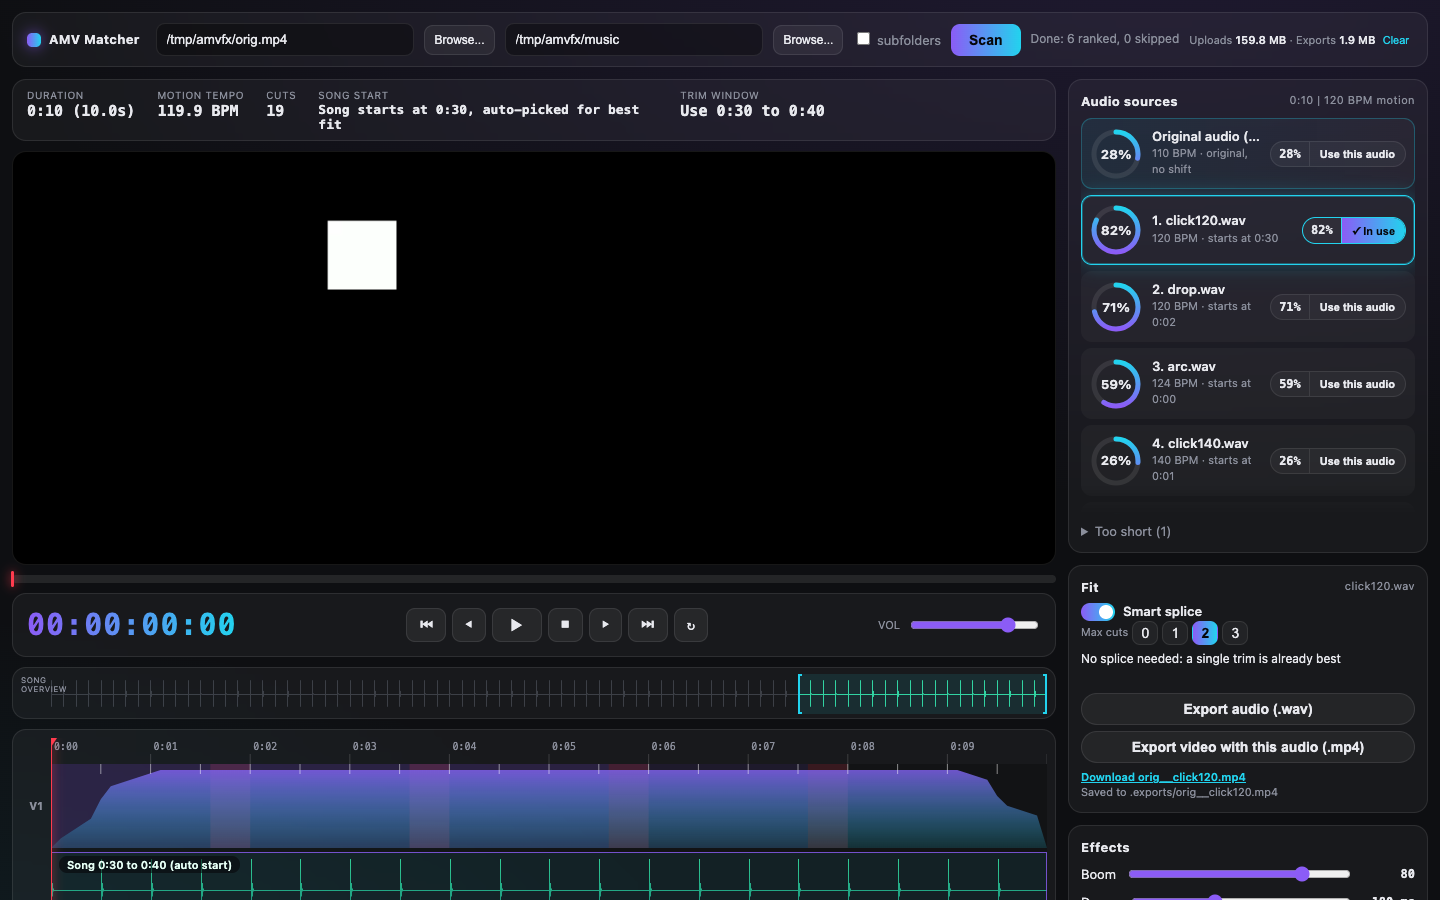
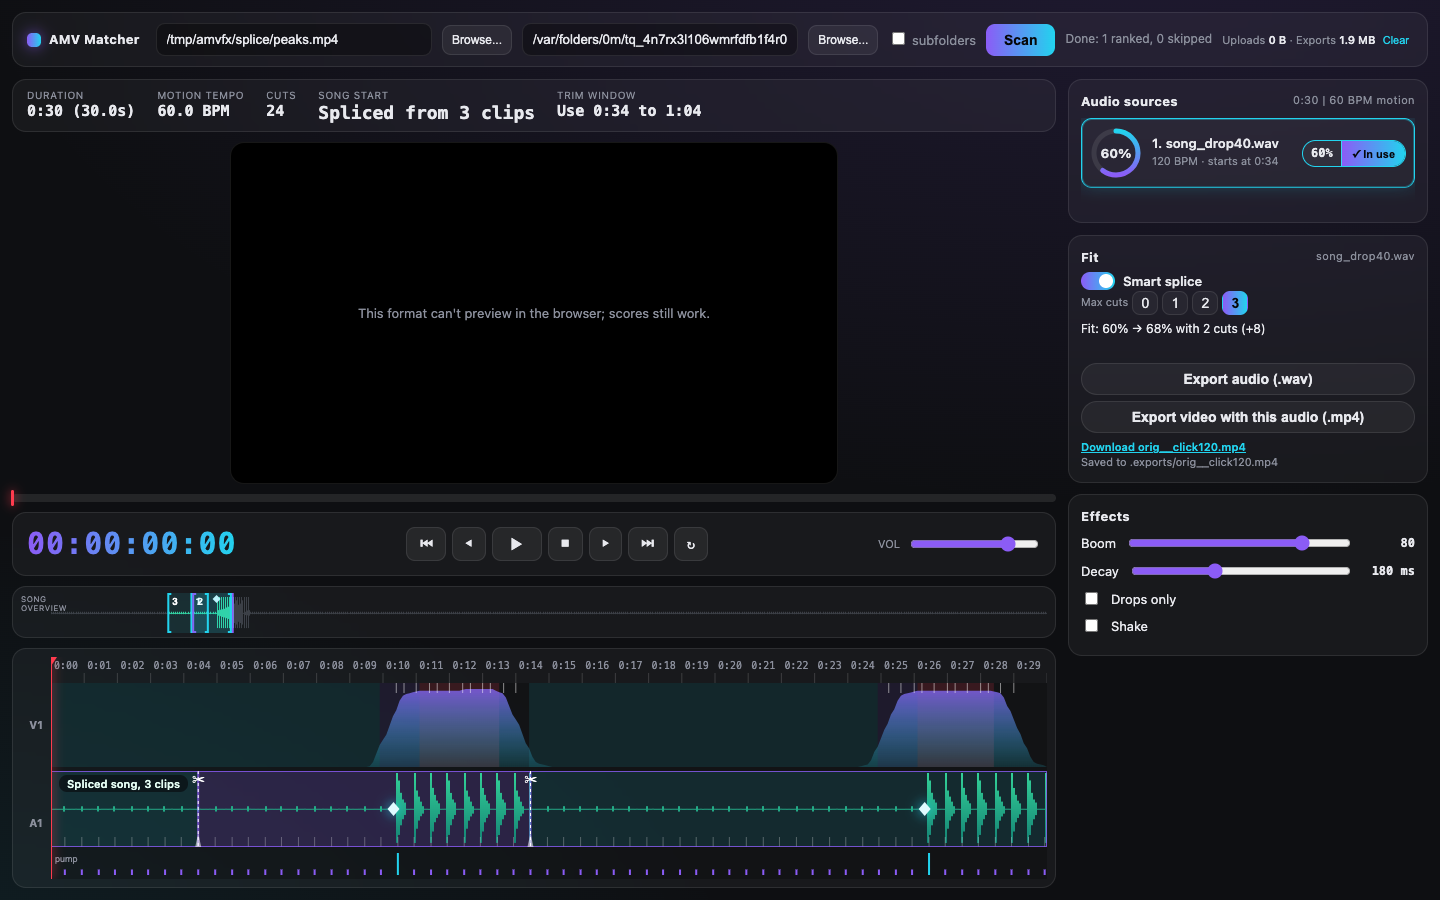
UI: smoke isolated on temp server, multi-cut + layout checks, player height cap, polish

diff --git a/static/app.js b/static/app.js
@@ -125,7 +125,7 @@ function renderResults(j) {
   order.forEach(i => {
     const r = S.results[i], orig = r.source === 'original';
     const d = document.createElement('div'); d.className = 'res' + (orig ? ' orig' : ''); d.dataset.i = i;
-    d.innerHTML = ring(r.total_pct) + `<div class="rtxt"><div class="rname" title="${esc(r.name)}">${orig ? '' : (++rank) + '. '}${esc(r.name)}${orig ? '<span class="chip">from video</span>' : ''}${r.dropped ? '<span class="chip">dropped</span>' : ''}</div>
+    d.innerHTML = ring(r.total_pct) + `<div class="rtxt"><div class="rname" title="${esc(r.name)}">${orig ? 'Original audio' : (++rank) + '. ' + esc(r.name)}${orig ? '<span class="chip">from video</span>' : ''}${r.dropped ? '<span class="chip">dropped</span>' : ''}</div>${orig ? `<div class="rsub">${esc((r.name.match(/\((.*)\)\s*$/) || [, ''])[1])}</div>` : ''}
       <div class="rmeta">${metaText(r)}</div></div><div class="pill"><span class="pp">${Math.round(r.total_pct)}%</span><button class="use" title="Use this audio for playback, splice and export">Use this audio</button></div>`;
     d.onclick = () => selectSong(r);
     d.querySelector('.use').onclick = e => { e.stopPropagation(); useAudio(r); };
@@ -413,7 +413,9 @@ cv.addEventListener('pointerup', () => { drag = null; });
 function clampOff(o) { const mx = S.wf ? Math.max(0, S.wf.duration - S.dur) : 0; return Math.min(mx, Math.max(0, o)); }
 function readout() {
   const r = S.sel, orig = r && r.source === 'original';
-  $('vc-off').textContent = !r ? '--' : orig ? 'Original audio, no shift' : spliceActive() ? 'Spliced from ' + (S.sp.plan.cuts.length + 1) + ' clips' : 'Song starts at ' + fmtMS(S.offset) + (S.manual ? ', set manually' : ', auto-picked for best fit');
+  $('vc-off').textContent = !r ? '--' : orig ? 'Original audio, no shift' : spliceActive() ? 'Spliced from ' + (S.sp.plan.cuts.length + 1) + ' clips' : 'Starts at ' + fmtMS(S.offset);
+  $('vc-chip').textContent = !r || orig || spliceActive() ? '' : S.manual ? 'manual' : 'auto-picked';
+  $('vc-chip').classList.toggle('hidden', !$('vc-chip').textContent);
   $('vc-reset').classList.toggle('hidden', !r || orig || !S.manual);
   $('vc-trim').textContent = !r ? '--' : orig ? 'Whole track' : 'Use ' + fmtMS(S.offset) + ' to ' + fmtMS(S.offset + S.dur);
   let l = ''; if (r) l = orig ? 'Original audio (from video)' : spliceActive() ? 'Spliced song, ' + (S.sp.plan.cuts.length + 1) + ' clips' : `Song ${fmtMS(S.offset)} to ${fmtMS(S.offset + S.dur)} (${S.manual ? 'manual' : 'auto'} start)`;
@@ -456,6 +458,7 @@ function drawOv() {
     octx.beginPath(); octx.moveTo(xa + 4, 1); octx.lineTo(xa + 1, 1); octx.lineTo(xa + 1, OH - 1); octx.lineTo(xa + 4, OH - 1); octx.moveTo(xb - 4, 1); octx.lineTo(xb - 1, 1); octx.lineTo(xb - 1, OH - 1); octx.lineTo(xb - 4, OH - 1); octx.stroke(); octx.lineWidth = 1;
     if (sp) { octx.fillStyle = '#fff'; octx.font = 'bold 10px sans-serif'; octx.fillText(String(k + 1), xa + 5, 12); }
   });
+  window.OVX = {brackets: sp ? segs.length : 0};
 }
 const ovX = e => e.clientX - ov.getBoundingClientRect().left;
 ov.addEventListener('pointerdown', e => {

diff --git a/static/style.css b/static/style.css
@@ -21,7 +21,7 @@ button.toggle.on{background:rgba(139,92,246,.35);border-color:var(--v)}
 .hidden{display:none!important}
 .layout{display:grid;grid-template-columns:minmax(0,1fr) 360px;gap:12px;margin:12px}
 .editor{display:flex;flex-direction:column;gap:10px;min-width:0}
-.stage{position:relative;aspect-ratio:16/9;max-height:46vh;width:100%;margin:0 auto;overflow:hidden;background:#000;display:flex;align-items:center;justify-content:center}
+.stage{position:relative;aspect-ratio:16/9;height:clamp(220px,38vh,520px);max-width:100%;margin:0 auto;overflow:hidden;background:#000;display:flex;align-items:center;justify-content:center}
 .stage video{width:100%;height:100%;object-fit:contain;will-change:transform,filter;transform-origin:center}
 .vid-msg{position:absolute;inset:0;display:flex;align-items:center;justify-content:center;text-align:center;color:var(--mut);padding:20px}
 .scrub{position:relative;height:8px;background:var(--line);border-radius:4px;cursor:pointer}
@@ -123,3 +123,5 @@ body.dragging .dz.bad::after{content:'\2715\00a0\00a0' attr(data-bad);background
 .ex-out{font-size:11px;margin-top:6px;word-break:break-all}
 .ex-out a.dl{color:var(--c);font-weight:600}
 body.dragging #fit,body.dragging .ovwrap{opacity:.5;transition:opacity var(--ease)}
+
+.vc-start b{font-size:18px}.vc-start .chip{margin:2px 0 0;align-self:flex-start}.rsub{display:block;font-weight:400;font-size:11px;color:var(--mut);overflow:hidden;text-overflow:ellipsis;white-space:nowrap}

diff --git a/static/index.html b/static/index.html
@@ -27,7 +27,7 @@
 
 <main class="layout">
   <section class="editor">
-    <div class="vcard glass" id="vcard"><div><span>Duration</span><b id="vc-dur">--</b></div><div><span>Motion tempo</span><b id="vc-bpm">--</b></div><div><span>Cuts</span><b id="vc-cuts">--</b></div><div class="vc-start"><span>Song start</span><b id="vc-off">--</b><button id="vc-reset" class="linkbtn hidden">Reset to best start</button></div><div><span>Trim window</span><b id="vc-trim">--</b></div></div>
+    <div class="vcard glass" id="vcard"><div><span>Duration</span><b id="vc-dur">--</b></div><div><span>Motion tempo</span><b id="vc-bpm">--</b></div><div><span>Cuts</span><b id="vc-cuts">--</b></div><div class="vc-start"><span>Song start</span><b id="vc-off">--</b><i id="vc-chip" class="chip hidden"></i><button id="vc-reset" class="linkbtn hidden">Reset to best start</button></div><div><span>Trim window</span><b id="vc-trim">--</b></div></div>
     <div class="stage glass" id="stage">
       <video id="vid" muted playsinline preload="auto"></video>
       <div id="vid-msg" class="vid-msg hidden">This format can't preview in the browser; scores still work.</div>

diff --git a/tools/ui_smoke.py b/tools/ui_smoke.py
@@ -11,6 +11,21 @@ import websocket
 
 CHROME = "/Applications/Google Chrome.app/Contents/MacOS/Google Chrome"
 PORT = 9333
+SRV_PORT = 8799
+
+
+def serve(d):
+    """Run the app with its upload/export/extract dirs redirected into a temp dir (no backend change needed)."""
+    sys.path.insert(0, os.path.join(os.path.dirname(os.path.abspath(__file__)), ".."))
+    from pathlib import Path
+    import uvicorn
+    from amv_matcher import server
+    server.UPLOADS = Path(d) / "uploads"
+    server.EXPORTS = Path(d) / "exports"
+    server.EXTRACTED = Path(d) / "extracted"
+    server.ALLOWED_ORIGINS = {f"http://127.0.0.1:{SRV_PORT}", f"http://localhost:{SRV_PORT}"}
+    uvicorn.run(server.app, host="127.0.0.1", port=SRV_PORT, log_level="warning")
+    return 0
 
 
 class CDP:
@@ -95,13 +110,40 @@ def wait_for(c, expr, timeout=60, step=0.4):
 
 def main():
     ap = argparse.ArgumentParser()
-    ap.add_argument("--url", default="http://127.0.0.1:8765")
+    ap.add_argument("--server", default=None, help="test an existing server read-only (writes are skipped); default: own temp server on :8799")
+    ap.add_argument("--_serve", default=None, help=argparse.SUPPRESS)
     ap.add_argument("--video", default="/tmp/amvfx/clip.mp4")
     ap.add_argument("--music", default="/tmp/amvfx/music")
     ap.add_argument("--allow-clear", action="store_true")
     ap.add_argument("--bad-video", default="/tmp/amvfx/clip.mkv")
     ap.add_argument("--shot", default=os.path.join(os.path.dirname(__file__), "..", "docs", "ui.png"))
     a = ap.parse_args()
+    if a._serve:
+        return serve(a._serve)
+    ro = a.server is not None
+    srv = None
+    sdir = None
+    if ro:
+        a.url = a.server
+    else:
+        sdir = tempfile.mkdtemp(prefix="amv-srv-")
+        a.url = f"http://127.0.0.1:{SRV_PORT}"
+        srv = subprocess.Popen([sys.executable, os.path.abspath(__file__), "--_serve", sdir],
+                               cwd=os.path.join(os.path.dirname(os.path.abspath(__file__)), ".."),
+                               stdout=subprocess.DEVNULL, stderr=subprocess.DEVNULL)
+        for _ in range(100):
+            try:
+                urllib.request.urlopen(a.url + "/api/uploads", timeout=1)
+                break
+            except Exception:
+                time.sleep(0.2)
+        else:
+            print("FAIL  temp server did not start on", a.url)
+            srv.kill()
+            shutil.rmtree(sdir, ignore_errors=True)
+            return 2
+    print("server:", a.url, "(read-only)" if ro else f"(own temp instance, state in {sdir})")
+    a.allow_clear = not ro
 
     prof = tempfile.mkdtemp(prefix="amv-ui-")
     proc = subprocess.Popen([CHROME, "--headless=new", f"--remote-debugging-port={PORT}", f"--user-data-dir={prof}",
@@ -361,8 +403,9 @@ def main():
                 os.makedirs(os.path.dirname(os.path.abspath(a.shot)), exist_ok=True)
                 import base64
                 png = c.call("Page.captureScreenshot", format="png")["data"]
-                open(a.shot, "wb").write(base64.b64decode(png))
-                check("screenshot saved (drop.wav at the drop)", os.path.getsize(a.shot) > 10000, os.path.abspath(a.shot))
+                tmpshot = os.path.join(prof, "drop.png")
+                open(tmpshot, "wb").write(base64.b64decode(png))
+                check("screenshot captured (drop.wav at the drop)", os.path.getsize(tmpshot) > 10000, tmpshot)
         else:
             print("SKIP  drop checks (no drop.wav in", a.music + ")")
 
@@ -421,19 +464,75 @@ def main():
                 check("splice on -> fit message (percentages only)", ("Fit:" in fm or "No splice" in fm) and "objective" not in fm.lower(), fm)
                 lbl = c.ev("document.getElementById('a1-lbl').textContent") or ""
                 check("A1 label reflects splice or single trim", "Spliced" in lbl or "Song" in lbl, lbl)
-            c.ev("document.getElementById('ex-wav').click()")
-            ok = wait_for(c, "!!document.querySelector('#ex-link')", 90)
-            href = c.ev("(document.querySelector('#ex-link')||{}).href")
-            st = c.ev(f"fetch({json.dumps(href or '')}).then(r=>r.status)") if href else None
-            check("Export .wav -> download link works", ok and st == 200, f"{href} {st}")
-            c.ev("document.getElementById('ex-mp4').click()")
-            ok = wait_for(c, "/\\.mp4/.test((document.querySelector('#ex-link')||{}).href||'')", 180)
-            href = c.ev("(document.querySelector('#ex-link')||{}).href")
-            st = c.ev(f"fetch({json.dumps(href or '')}).then(r=>r.status)") if href else None
-            check("Export .mp4 -> job completes, download works", ok and st == 200, f"{href} {st}")
+            if ro:
+                print("SKIP  export checks (read-only server)")
+            else:
+                c.ev("document.getElementById('ex-wav').click()")
+                ok = wait_for(c, "!!document.querySelector('#ex-link')", 90)
+                href = c.ev("(document.querySelector('#ex-link')||{}).href")
+                st = c.ev(f"fetch({json.dumps(href or '')}).then(r=>r.status)") if href else None
+                check("Export .wav -> download link works", ok and st == 200, f"{href} {st}")
+                c.ev("document.getElementById('ex-mp4').click()")
+                ok = wait_for(c, "/\\.mp4/.test((document.querySelector('#ex-link')||{}).href||'')", 180)
+                href = c.ev("(document.querySelector('#ex-link')||{}).href")
+                st = c.ev(f"fetch({json.dumps(href or '')}).then(r=>r.status)") if href else None
+                check("Export .mp4 -> job completes, download works", ok and st == 200, f"{href} {st}")
+            import base64
+            # restore the main fixture for the following checks
+            scan(a.video)
+            wait_for(c, "document.querySelectorAll('.res').length>0 && !document.getElementById('scan').disabled", 90)
+            c.ev("document.querySelector('.res').click()")
+            wait_for(c, "!!(S.sel && S.wf) && document.getElementById('vid').readyState>=2", 30)
+
+        # ---- multi-cut splice (cuts clearly win) + layout, final docs/ui.png
+        sd = "/tmp/amvfx/splice"
+        try:
+            sys.path.insert(0, os.path.join(os.path.dirname(os.path.abspath(__file__)), ".."))
+            from tests.synth import make_peaks_video, make_loud_windows
+            os.makedirs(sd, exist_ok=True)
+            if not os.path.exists(sd + "/peaks.mp4"):
+                make_peaks_video(sd + "/peaks.mp4")
+            if not os.path.exists(sd + "/song_drop40.wav"):
+                make_loud_windows(sd + "/song_drop40.wav", seconds=240, loud=((40, 48),))
+        except Exception as e:
+            print("SKIP  multi-cut fixtures:", e)
+        if os.path.exists(sd + "/peaks.mp4") and os.path.exists(sd + "/song_drop40.wav"):
+            mc_dir = os.path.join(prof, "mc")
+            os.makedirs(mc_dir, exist_ok=True)
+            shutil.copy(sd + "/song_drop40.wav", mc_dir)
+            keep = a.music
+            a.music = mc_dir
+            scan(sd + "/peaks.mp4")
+            wait_for(c, "document.querySelectorAll('.res').length>0 && !document.getElementById('scan').disabled", 90)
+            a.music = keep
+            c.ev("[...document.querySelectorAll('.res:not(.orig) button.use')][0].click()")
+            wait_for(c, "/Song /.test(document.getElementById('a1-lbl').textContent)", 30)
+            c.ev("document.querySelector('#sp-max button[data-n=\"3\"]').click()")
+            if not c.ev("document.getElementById('sp-on').checked"):
+                c.ev("document.getElementById('sp-on').click()")
+            ok = wait_for(c, "!!(S.sp.plan && S.sp.plan.cuts!==undefined) && !S.sp.busy", 60)
+            fm = c.ev("document.getElementById('fit-msg').textContent") or ""
+            ncut = c.ev("S.sp.plan ? (S.sp.plan.cuts||[]).length : -1")
+            check("multi-cut: plan has >= 1 cut and Fit message shows an improvement", ok and ncut >= 1 and "\u2192" in fm and "cut" in fm.lower() and "objective" not in fm.lower(), f"cuts={ncut} {fm}")
+            wait_for(c, "/export-file|render/.test(document.getElementById('aud').src||'')", 40)
+            c.pump(0.6)
+            asrc = c.ev("document.getElementById('aud').src") or ""
+            check("multi-cut: spliced playback uses the rendered wav", "/api/export-file" in asrc or "render" in asrc, asrc[-60:])
+            nclip = c.ev("(S.sp.plan.segments||[]).length")
+            check("multi-cut: A1 draws >= 2 clips (plan segments)", nclip >= 2, f"segments={nclip}")
+            c.pump(0.3)
+            ovn = c.ev("(typeof OVX!=='undefined'&&OVX.brackets)?OVX.brackets:null")
+            check("multi-cut: overview draws numbered brackets", ovn is not None and ovn >= 2, f"brackets={ovn}")
+            c.ev("seek(0)")
+            c.pump(0.5)
+            # layout at 1440x900: transport, overview, V1 and A1 all visible without scrolling
+            bot = c.ev("(()=>{const e=document.getElementById('tl');return e.getBoundingClientRect().bottom})()")
+            sy = c.ev("document.scrollingElement.scrollHeight")
+            check("layout 1440x900: A1/pump lane fully visible without scrolling", bot <= 900.5, f"tl bottom={bot} scrollHeight={sy}")
             import base64
             shotv2 = os.path.join(os.path.dirname(os.path.abspath(a.shot)), "ui.png")
             open(shotv2, "wb").write(base64.b64decode(c.call("Page.captureScreenshot", format="png")["data"]))
+            check("screenshot saved (multi-cut splice on)", os.path.getsize(shotv2) > 10000, shotv2)
             # restore the main fixture for the following checks
             scan(a.video)
             wait_for(c, "document.querySelectorAll('.res').length>0 && !document.getElementById('scan').disabled", 90)
@@ -443,7 +542,7 @@ def main():
         # ---- drag-and-drop / Browse uploads
         mus = lambda n: os.path.join(a.music, n)
         have = [n for n in ("click120.wav", "click140.wav", "click97.wav") if os.path.exists(mus(n))]
-        if os.path.exists(a.video) and len(have) >= 2:
+        if not ro and os.path.exists(a.video) and len(have) >= 2:
             c.ev("""(()=>{const i=document.createElement('input');i.type='file';i.multiple=true;i.id='__scratch';document.body.appendChild(i)})()""")
             root = c.call("DOM.getDocument")["root"]["nodeId"]
             nid = c.call("DOM.querySelector", nodeId=root, selector="#__scratch")["nodeId"]
@@ -458,7 +557,7 @@ def main():
             check("audio dropped on the video zone -> 'Not a video' toast", wait_for(c, "/Not a video/.test(__toasts())", 5), (c.ev("__toasts()") or "")[:60])
 
             c.ev("__drop('#stage', __vid)")
-            ok = wait_for(c, "/\\.uploads\\//.test(decodeURIComponent(document.getElementById('vid').src||'')) && document.getElementById('up-ring').classList.contains('hidden')", 90)
+            ok = wait_for(c, "/\\/uploads\\/video\\//.test(decodeURIComponent(document.getElementById('vid').src||'')) && document.getElementById('up-ring').classList.contains('hidden')", 90)
             check("dropping a video uploads it and the player switches to it", ok, (c.ev("document.getElementById('vid').src") or "")[-50:])
             wait_for(c, "!document.getElementById('scan').disabled && document.querySelectorAll('.res').length>0", 60)
 
@@ -519,7 +618,7 @@ def main():
               wait_for(c, "document.getElementById('up-clear').disabled", 20)
               c.ev("document.getElementById('__scratch').remove()")
         else:
-            print("SKIP  drag-and-drop checks (fixtures missing)")
+            print("SKIP  drag-and-drop checks (read-only server or fixtures missing)")
 
         # ---- error path
         if os.path.exists(a.bad_video):
@@ -542,6 +641,13 @@ def main():
         except Exception:
             proc.kill()
         shutil.rmtree(prof, ignore_errors=True)
+        if srv:
+            srv.terminate()
+            try:
+                srv.wait(5)
+            except Exception:
+                srv.kill()
+            shutil.rmtree(sdir, ignore_errors=True)
 
 
 if __name__ == "__main__":

diff --git a/tests/synth.py b/tests/synth.py
@@ -123,3 +123,44 @@ def make_video_with_audio(path, wav, seconds=10.0, fps=30, jump_every=0.5, size=
     for p in a.encode(None):
         out.mux(p)
     out.close()
+
+
+def make_peaks_video(path, seconds=30.0, peaks=(10.0, 25.0), peak_len=4.0, fps=30, size=(320, 240)):
+    """Static square, with a rapidly jumping square during each (start, start+peak_len) peak."""
+    w, h = size
+    vw = cv2.VideoWriter(str(path), cv2.VideoWriter_fourcc(*"MJPG"), fps, size)
+    assert vw.isOpened(), "OpenCV could not open a VideoWriter"
+    pos = [(40, 40), (240, 160), (200, 40), (60, 150)]
+    for f in range(int(seconds * fps)):
+        t = f / fps
+        img = np.zeros((h, w, 3), np.uint8)
+        pk = next((p for p in peaks if p <= t < p + peak_len), None)
+        x, y = (40, 40) if pk is None else pos[int((t - pk) / 0.2) % 4]
+        cv2.rectangle(img, (x, y), (x + 40, y + 40), (255, 255, 255), -1)
+        vw.write(img)
+    vw.release()
+
+
+def make_loud_windows(path, bpm=120, seconds=60.0, loud=((40.0, 48.0),), seed=0):
+    """Quiet clicks, with loud clicks plus a 60 Hz thump on every beat inside each (start, end) window."""
+    rng = np.random.default_rng(seed)
+    y = np.zeros(int(SR * seconds), dtype=np.float32)
+    n = int(0.03 * SR)
+    t = np.arange(n) / SR
+    click = (np.sin(2 * np.pi * 1000 * t) * np.exp(-t * 150)).astype(np.float32)
+    nt = int(0.25 * SR)
+    tt = np.arange(nt) / SR
+    thump = (np.sin(2 * np.pi * 60 * tt) * np.exp(-tt * 8)).astype(np.float32)
+    period = 60.0 / bpm
+    k = 0
+    while k * period < seconds - 0.3:
+        b = k * period
+        i = int(b * SR)
+        if any(a <= b < e for a, e in loud):
+            y[i:i + n] += 0.9 * click
+            y[i:i + nt] += 0.9 * thump[: len(y) - i][:nt]
+        else:
+            y[i:i + n] += 0.08 * click
+        k += 1
+    y += (0.002 * rng.standard_normal(len(y))).astype(np.float32)
+    sf.write(str(path), np.clip(y, -1, 1), SR)
